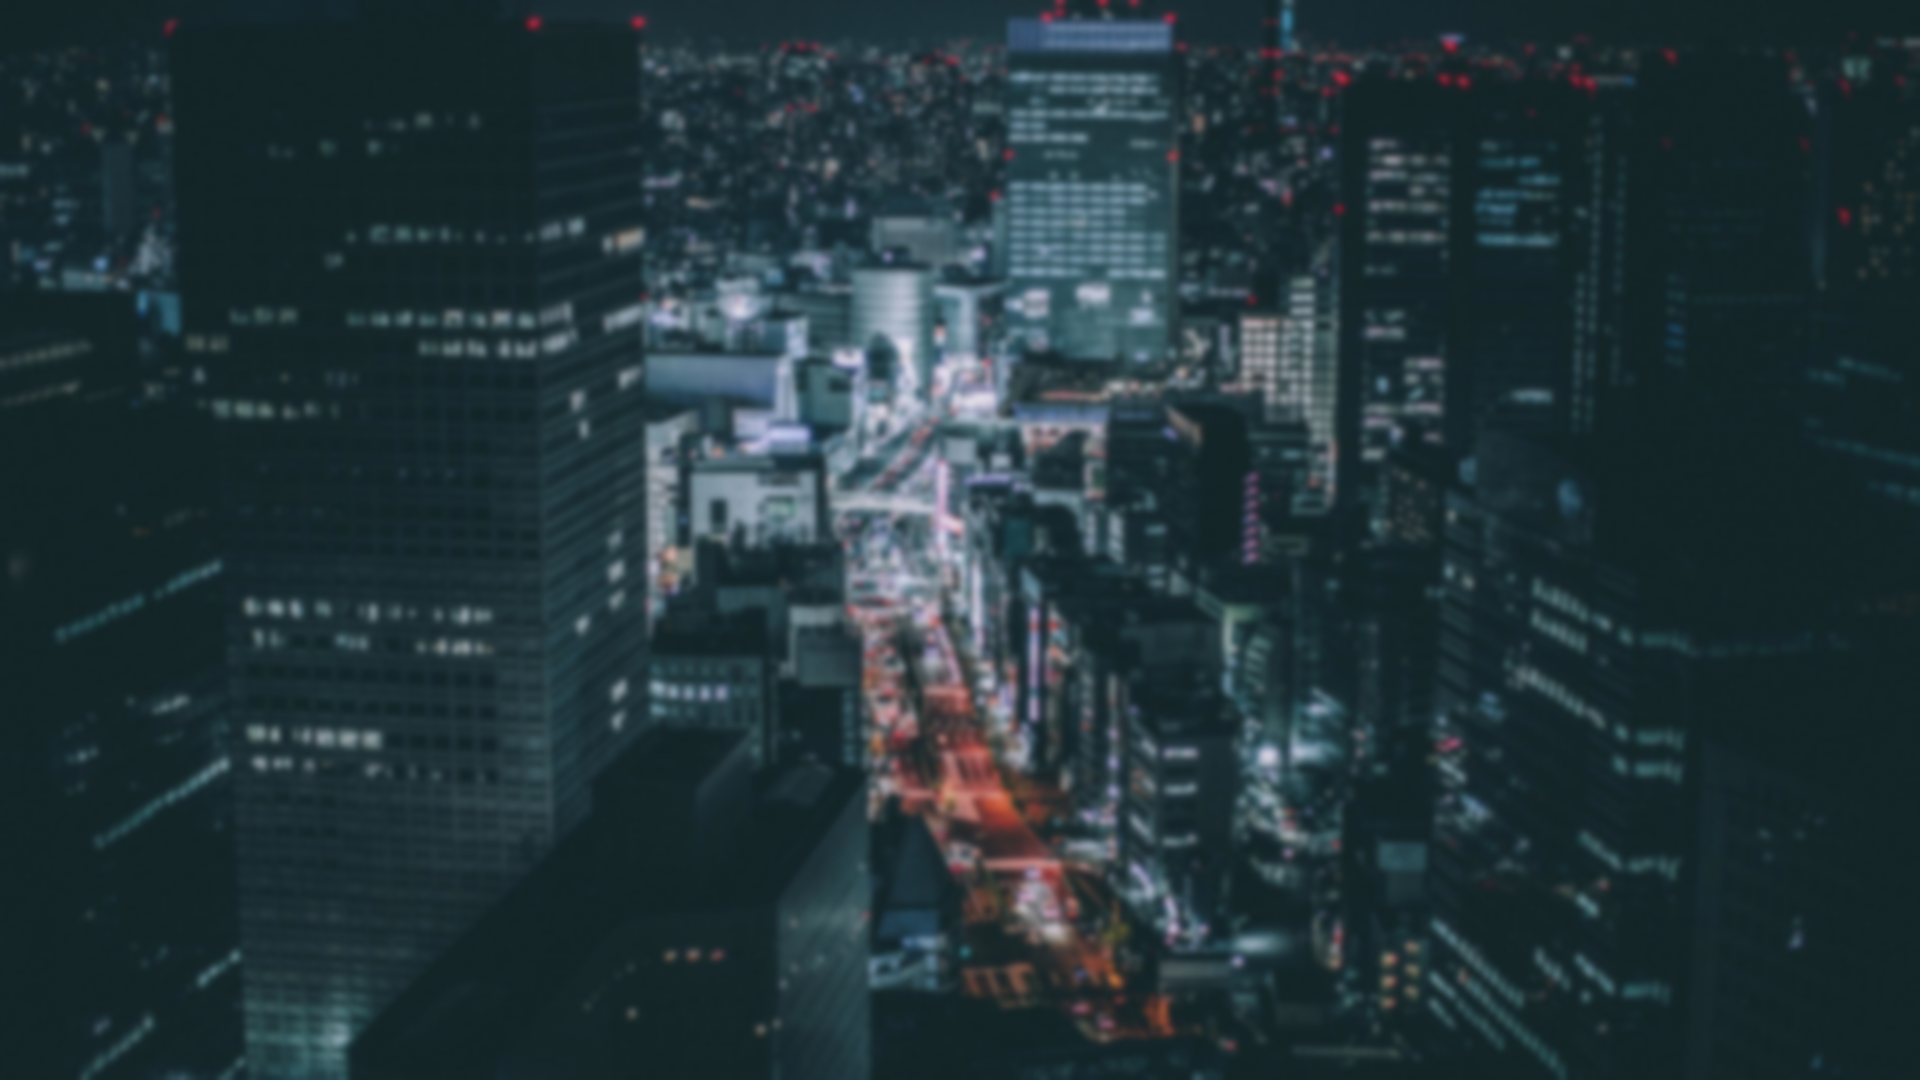
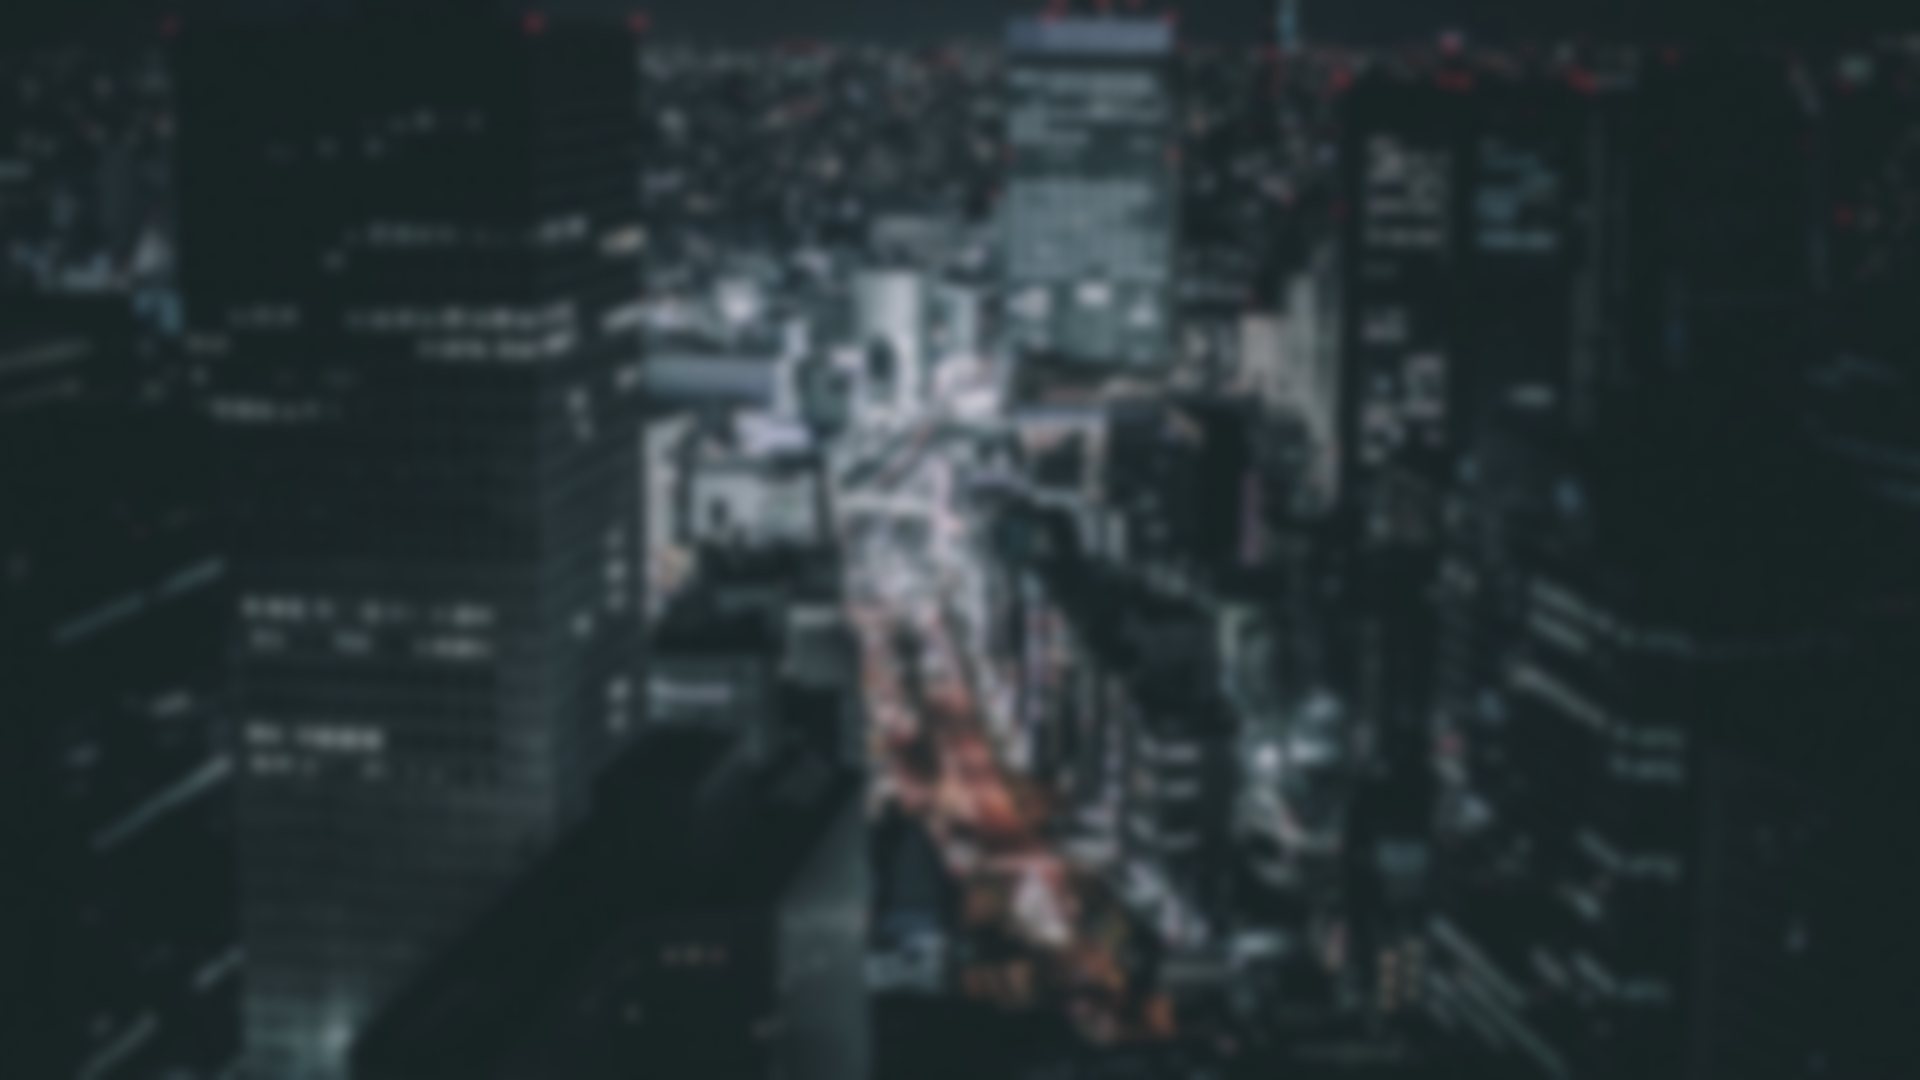
More improvements on esthetics and functionality

diff --git a/index.html b/index.html
@@ -23,7 +23,7 @@
 </header>
     <section id="welcome-section">
         <h1> Hi! This is Me!</h1>
-            <h2>a web developer</h2>
+            <h2>a sysadmin & web developer</h2>
     </section>
     <section id="projects">
         <a href="">
@@ -44,29 +44,28 @@
     </section>
     <section id="about">
         <p>[English]</p>
-        <p>Hi! My name is Me!, im a 23 years old sysadmin with huge interest on getting programming skills via web development and devops technologies. <br>
-        Do you want to know more about me? Reach me via Linkedin and lets arrange a meeting to know more about each other!</p>
+        <p>Hi! My name is Me!, im a 23 years old sysadmin with huge interest on getting programming skills via <br> web development and devops technologies.</p>
+        <p>Do you want to know more about me? Reach me via Linkedin and lets arrange a meeting to know more about each other!</p>
         
         <br>
         <p>[Español]</p>
-        <p>¡Hola! Me llamo Me!, soy une sysadmin de 23 años con un gran interés por obtener habilidades en programación via desarrollo web y tecnologías devops. <br>
-        ¿Quieres saber más sobre mí? ¡Contáctame via Linkedin y concertamos una reunión!</p>
+        <p>¡Hola! Me llamo Me!, soy une sysadmin de 23 años con un gran interés por obtener habilidades en programación via <br>desarrollo web y tecnologías devops. </p>
+        <p>¿Quieres saber más sobre mí? ¡Contáctame via Linkedin y concertamos una reunión para conocernos mejor!</p>
     </section>
     <section id="bottom">
         <span><h1>Contact me!</h1></span> <br>
         <!--<span><h3></h3></span>-->
         <a href="https://github.com/Akirapearl/" id="profile-link" target="_blank">
             <span>Github</span></a>
-            <a href="" id="linkedin">
-                <img class="logos" src="assets/images/linked.png" alt="linkedin logo">
+            <a href="https://www.linkedin.com/in/sergio-d-3975791a4/" id="linkedin">
             <span>Linkedin</span>
         </a>
         
     </section>
     <footer>
         <hr>
-            <p> This project is just starting, my goal is to develop a full <br>
-                frontend site where i can post my newest achievements and projects.
+            <p> The goal of this website/project is to develop a full frontend site <br>
+                where i can show my newest achievements and projects.
         </p>
         &copy;Me, my computer, and lots of patience and trial-error. Started on Nov 2021.
     </footer>

diff --git a/assets/styles.css b/assets/styles.css
@@ -60,7 +60,6 @@ a{
 
 /*Second section - projects/portfolio */
 #projects{
-   /*background-color: black;*/
     background-image: url("https://papers.co/wallpaper/papers.co-ax42-coding-dark-computer-bokeh-illustration-art-black-36-3840x2400-4k-wallpaper.jpg");
     background-position:center;
     background-repeat: no-repeat;
@@ -98,7 +97,8 @@ a{
 
 /*Third section - about me*/
 #about{
-    background-image: url("https://i.imgur.com/7cJxNkq.png");
+    background-image: url("https://i.imgur.com/bT1Rxsh.png");
+    /*background-image: url("/dev/akirapearl/assets/images/tokyoblur.png");*/
     font-size: 20px;
     padding-top: 13%;
     padding-bottom: 12%;
@@ -126,11 +126,9 @@ a{
     color: white;
     font-family: 'JetBrains Mono', 'Lucida Sans Unicode';
 }
-.logos{
-    width: 30px;
-}
 hr{
     border: 5px solid #662D8C;
+    background-color: #662D8C;
 }
 
 footer{
